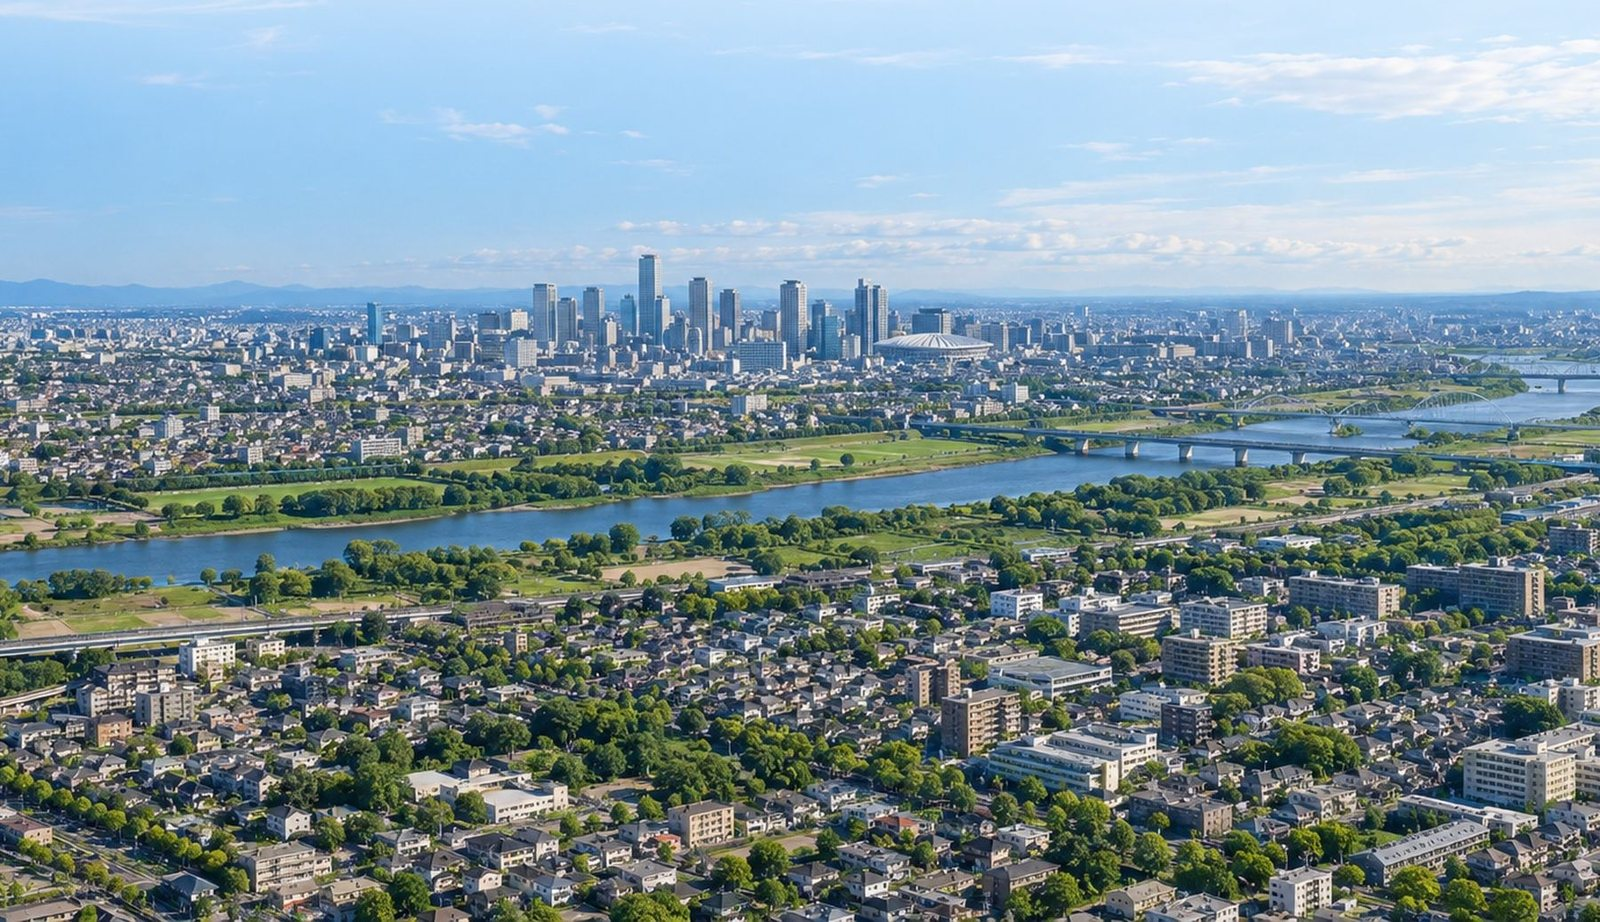
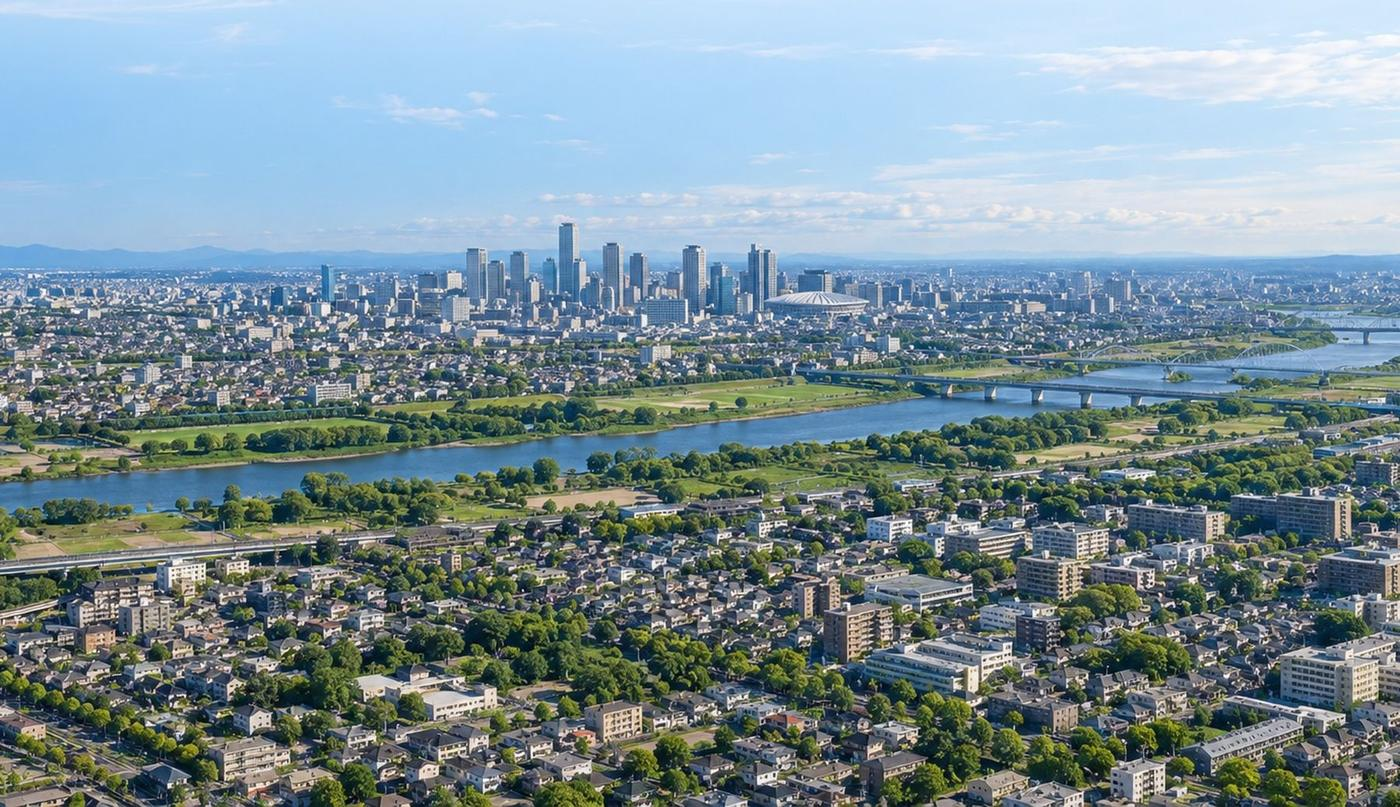
見つからないページ用の画面を追加、冒頭の写真とロゴを軽量化
Claude-Session: https://claude.ai/code/session_013cdQPzXo8Fqih8xj5kwKNA

diff --git a/404.html b/404.html
@@ -1,0 +1,100 @@
+<!DOCTYPE html>
+<html lang="ja">
+<head>
+<meta charset="utf-8">
+<meta name="viewport" content="width=device-width, initial-scale=1, viewport-fit=cover">
+<title>ページが見つかりません｜株式会社ResOne</title>
+<meta name="description" content="お探しのページは見つかりませんでした。">
+<meta name="robots" content="noindex">
+<link rel="icon" href="/favicon.ico" sizes="48x48">
+<link rel="icon" type="image/png" sizes="96x96" href="/img/favicon-96.png">
+<link rel="icon" type="image/png" sizes="192x192" href="/img/favicon-192.png">
+<link rel="apple-touch-icon" href="/img/apple-touch-icon.png">
+<meta property="og:type" content="website">
+<meta property="og:site_name" content="株式会社ResOne">
+<meta property="og:title" content="ページが見つかりません｜株式会社ResOne">
+<meta property="og:description" content="お探しのページは見つかりませんでした。">
+<meta property="og:image" content="https://res-1.com/img/og.jpg">
+<meta property="og:image:width" content="1200">
+<meta property="og:image:height" content="630">
+<meta property="og:locale" content="ja_JP">
+<meta name="twitter:card" content="summary_large_image">
+<link rel="preconnect" href="https://fonts.googleapis.com">
+<link rel="preconnect" href="https://fonts.gstatic.com" crossorigin>
+<link rel="stylesheet" href="https://fonts.googleapis.com/css2?family=Zen+Kaku+Gothic+New:wght@400;500;700&family=Zen+Old+Mincho:wght@500;700&display=swap">
+<link rel="stylesheet" href="/css/site.css?v=20261118">
+<script>document.documentElement.className+=' js'</script>
+</head>
+<body>
+
+<header class="hd">
+  <div class="in">
+    <a class="logo" href="/index.html" aria-label="株式会社ResOne トップ">
+      <img src="/img/logo-s.webp" alt="ResOne" width="132" height="184">
+      <span class="n">株式会社ResOne</span>
+    </a>
+    <button class="menu-btn" type="button" aria-expanded="false" aria-controls="gnav" aria-label="メニューを開く"><span></span><span></span><span></span></button>
+    <nav class="gnav" id="gnav" aria-label="メニュー">
+      <a href="/service.html">事業内容</a>
+      <a href="/about.html">会社案内</a>
+      <a href="/faq.html">よくあるご質問</a>
+      <a href="/column.html">コラム</a>
+      <a href="/recruit.html">採用情報</a>
+      <a href="/index.html#contact">お問い合わせ</a>
+      <a class="tel" href="tel:080-2028-7637">080-2028-7637</a>
+      <a class="nav-line" href="https://lin.ee/uGL222C" target="_blank" rel="noopener">LINEで相談する</a>
+    </nav>
+  </div>
+</header>
+<main class="doc">
+<div class="in narrow">
+<h1>ページが見つかりません</h1>
+<p>お探しのページは、移動または削除された可能性があります。お手数ですが、下のリンクからお探しください。</p>
+<ul>
+<li><a href="/index.html">トップ</a></li>
+<li><a href="/service.html">事業内容</a></li>
+<li><a href="/about.html">会社案内</a></li>
+<li><a href="/faq.html">よくあるご質問</a></li>
+<li><a href="/column.html">コラム</a></li>
+</ul>
+<div class="next">
+<p>ご相談は公式LINEから承っています。</p>
+<p style="margin:0"><a class="lbtn" href="https://lin.ee/uGL222C" target="_blank" rel="noopener">LINEで相談する</a></p>
+</div>
+</div>
+</main>
+
+<div class="cta-bar" aria-label="お問い合わせ">
+  <a href="https://lin.ee/uGL222C" class="c1" target="_blank" rel="noopener">LINEで相談する</a>
+  <a href="tel:080-2028-7637" class="c2">電話する</a>
+</div>
+
+<footer class="ft">
+  <div class="in">
+    <div>
+      <p class="nm">株式会社ResOne</p>
+      <p>〒339-0056 埼玉県さいたま市岩槻区加倉5-5-26<br>TEL 080-2028-7637</p>
+      <p class="cp">© 2026 ResOne Inc.</p>
+    </div>
+    <div class="pol">
+      <p class="pl">会社</p>
+      <ul>
+        <li><a href="/service.html">事業内容</a></li>
+        <li><a href="/about.html">会社案内</a></li>
+        <li><a href="/faq.html">よくあるご質問</a></li>
+        <li><a href="/column.html">コラム</a></li>
+        <li><a href="/recruit.html">採用情報</a></li>
+      </ul>
+      <p class="pl" style="margin-top:14px">方針</p>
+      <ul>
+        <li><a href="/kanyu-hoshin.html">勧誘方針</a></li>
+        <li><a href="/privacy.html">個人情報保護方針</a></li>
+        <li><a href="/hokengyoho300.html">保険業法第300条について</a></li>
+        <li><a href="/fd-policy.html">お客様本位の業務運営に関する取組方針</a></li>
+      </ul>
+    </div>
+  </div>
+</footer>
+<script src="/js/site.js?v=20261118" defer></script>
+</body>
+</html>

diff --git a/index.html b/index.html
@@ -32,7 +32,7 @@
 <header class="hd">
   <div class="in">
     <a class="logo" href="index.html" aria-label="株式会社ResOne トップ">
-      <img src="img/logo.png" alt="ResOne" width="525" height="730">
+      <img src="img/logo-s.webp" alt="ResOne" width="132" height="184">
       <span class="n">株式会社ResOne</span>
     </a>
     <button class="menu-btn" type="button" aria-expanded="false" aria-controls="gnav" aria-label="メニューを開く"><span></span><span></span><span></span></button>
@@ -69,7 +69,7 @@
           </dl>
         </div>
       </div>
-      <figure class="fv-img"><img src="img/hero-city.jpg" alt="街並み" width="1600" height="922"></figure>
+      <figure class="fv-img"><picture style="display:block"><source srcset="img/hero-city.webp" type="image/webp"><img src="img/hero-city.jpg" alt="街並み" width="1400" height="807" fetchpriority="high"></picture></figure>
     </div>
   </section>
 

diff --git a/about.html b/about.html
@@ -31,7 +31,7 @@
 <header class="hd">
   <div class="in">
     <a class="logo" href="index.html" aria-label="株式会社ResOne トップ">
-      <img src="img/logo.png" alt="ResOne" width="525" height="730">
+      <img src="img/logo-s.webp" alt="ResOne" width="132" height="184">
       <span class="n">株式会社ResOne</span>
     </a>
     <button class="menu-btn" type="button" aria-expanded="false" aria-controls="gnav" aria-label="メニューを開く"><span></span><span></span><span></span></button>

diff --git a/column-jutaku-loan.html b/column-jutaku-loan.html
@@ -31,7 +31,7 @@
 <header class="hd">
   <div class="in">
     <a class="logo" href="index.html" aria-label="株式会社ResOne トップ">
-      <img src="img/logo.png" alt="ResOne" width="525" height="730">
+      <img src="img/logo-s.webp" alt="ResOne" width="132" height="184">
       <span class="n">株式会社ResOne</span>
     </a>
     <button class="menu-btn" type="button" aria-expanded="false" aria-controls="gnav" aria-label="メニューを開く"><span></span><span></span><span></span></button>

diff --git a/column-kyosai-chofuku.html b/column-kyosai-chofuku.html
@@ -31,7 +31,7 @@
 <header class="hd">
   <div class="in">
     <a class="logo" href="index.html" aria-label="株式会社ResOne トップ">
-      <img src="img/logo.png" alt="ResOne" width="525" height="730">
+      <img src="img/logo-s.webp" alt="ResOne" width="132" height="184">
       <span class="n">株式会社ResOne</span>
     </a>
     <button class="menu-btn" type="button" aria-expanded="false" aria-controls="gnav" aria-label="メニューを開く"><span></span><span></span><span></span></button>

diff --git a/column.html b/column.html
@@ -31,7 +31,7 @@
 <header class="hd">
   <div class="in">
     <a class="logo" href="index.html" aria-label="株式会社ResOne トップ">
-      <img src="img/logo.png" alt="ResOne" width="525" height="730">
+      <img src="img/logo-s.webp" alt="ResOne" width="132" height="184">
       <span class="n">株式会社ResOne</span>
     </a>
     <button class="menu-btn" type="button" aria-expanded="false" aria-controls="gnav" aria-label="メニューを開く"><span></span><span></span><span></span></button>

diff --git a/faq.html b/faq.html
@@ -31,7 +31,7 @@
 <header class="hd">
   <div class="in">
     <a class="logo" href="index.html" aria-label="株式会社ResOne トップ">
-      <img src="img/logo.png" alt="ResOne" width="525" height="730">
+      <img src="img/logo-s.webp" alt="ResOne" width="132" height="184">
       <span class="n">株式会社ResOne</span>
     </a>
     <button class="menu-btn" type="button" aria-expanded="false" aria-controls="gnav" aria-label="メニューを開く"><span></span><span></span><span></span></button>

diff --git a/fd-policy.html b/fd-policy.html
@@ -31,7 +31,7 @@
 <header class="hd">
   <div class="in">
     <a class="logo" href="index.html" aria-label="株式会社ResOne トップ">
-      <img src="img/logo.png" alt="ResOne" width="525" height="730">
+      <img src="img/logo-s.webp" alt="ResOne" width="132" height="184">
       <span class="n">株式会社ResOne</span>
     </a>
     <button class="menu-btn" type="button" aria-expanded="false" aria-controls="gnav" aria-label="メニューを開く"><span></span><span></span><span></span></button>

diff --git a/hokengyoho300.html b/hokengyoho300.html
@@ -31,7 +31,7 @@
 <header class="hd">
   <div class="in">
     <a class="logo" href="index.html" aria-label="株式会社ResOne トップ">
-      <img src="img/logo.png" alt="ResOne" width="525" height="730">
+      <img src="img/logo-s.webp" alt="ResOne" width="132" height="184">
       <span class="n">株式会社ResOne</span>
     </a>
     <button class="menu-btn" type="button" aria-expanded="false" aria-controls="gnav" aria-label="メニューを開く"><span></span><span></span><span></span></button>

diff --git a/kanyu-hoshin.html b/kanyu-hoshin.html
@@ -31,7 +31,7 @@
 <header class="hd">
   <div class="in">
     <a class="logo" href="index.html" aria-label="株式会社ResOne トップ">
-      <img src="img/logo.png" alt="ResOne" width="525" height="730">
+      <img src="img/logo-s.webp" alt="ResOne" width="132" height="184">
       <span class="n">株式会社ResOne</span>
     </a>
     <button class="menu-btn" type="button" aria-expanded="false" aria-controls="gnav" aria-label="メニューを開く"><span></span><span></span><span></span></button>

diff --git a/privacy.html b/privacy.html
@@ -31,7 +31,7 @@
 <header class="hd">
   <div class="in">
     <a class="logo" href="index.html" aria-label="株式会社ResOne トップ">
-      <img src="img/logo.png" alt="ResOne" width="525" height="730">
+      <img src="img/logo-s.webp" alt="ResOne" width="132" height="184">
       <span class="n">株式会社ResOne</span>
     </a>
     <button class="menu-btn" type="button" aria-expanded="false" aria-controls="gnav" aria-label="メニューを開く"><span></span><span></span><span></span></button>

diff --git a/recruit.html b/recruit.html
@@ -31,7 +31,7 @@
 <header class="hd">
   <div class="in">
     <a class="logo" href="index.html" aria-label="株式会社ResOne トップ">
-      <img src="img/logo.png" alt="ResOne" width="525" height="730">
+      <img src="img/logo-s.webp" alt="ResOne" width="132" height="184">
       <span class="n">株式会社ResOne</span>
     </a>
     <button class="menu-btn" type="button" aria-expanded="false" aria-controls="gnav" aria-label="メニューを開く"><span></span><span></span><span></span></button>
